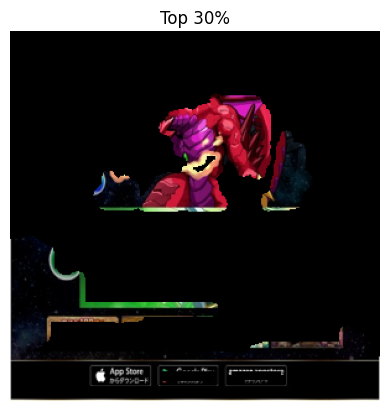
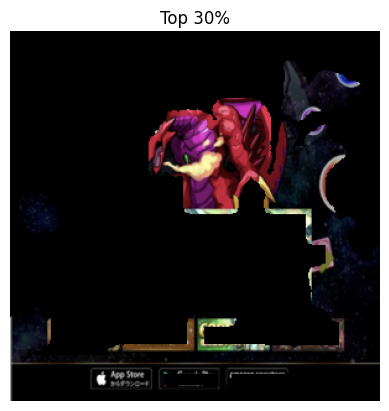
chore: Update image file names and save format in color blindness correction and saliency map generation

diff --git a/app/color_blindness_simulation.py b/app/color_blindness_simulation.py
@@ -33,45 +33,22 @@ def simulate_tritanopia(image):
     ])
     return apply_color_blindness_filter(image, tritanopia_matrix)
 
-
-def create_blindness_image(image_path,color_blindness_type='deuteranopia'):
-# Load image
-# image_path = 'many.jpg'  # 変換したい画像のパスを指定してください
+def create_blindness_image(image_path, color_blindness_type='deuteranopia', save_path='output_image.png'):
+    # Load image
     original_image = Image.open(image_path)
-    
     
     # Apply filters
     if color_blindness_type == 'protanopia':
-        protanopia_image = simulate_protanopia(original_image)
-        return protanopia_image
+        processed_image = simulate_protanopia(original_image)
     elif color_blindness_type == 'deuteranopia':
-        deuteranopia_image = simulate_deuteranopia(original_image)
-        return deuteranopia_image
+        processed_image = simulate_deuteranopia(original_image)
     elif color_blindness_type == 'tritanopia':
-        tritanopia_image = simulate_tritanopia(original_image)
-        return tritanopia_image
-    # protanopia_image = simulate_protanopia(original_image)
-    # deuteranopia_image = simulate_deuteranopia(original_image)
-    # tritanopia_image = simulate_tritanopia(original_image)
+        processed_image = simulate_tritanopia(original_image)
+    else:
+        raise ValueError("Invalid color blindness type. Choose from 'protanopia', 'deuteranopia', or 'tritanopia'.")
+    
+    # Save the processed image as PNG
+    processed_image.save(save_path, "PNG")
 
-    # # Save results
-    # protanopia_image.save('image/protanopia_image.jpg')
-    # deuteranopia_image.save('image/deuteranopia_image.jpg')
-    # tritanopia_image.save('image/tritanopia_image.jpg')
-    # return [protanopia_image, deuteranopia_image, tritanopia_image]
-
-# Display results
-# fig, axes = plt.subplots(1, 4, figsize=(20, 5))
-# axes[0].imshow(original_image)
-# axes[0].set_title('Original')
-# axes[0].axis('off')
-# axes[1].imshow(protanopia_image)
-# axes[1].set_title('Protanopia')
-# axes[1].axis('off')
-# axes[2].imshow(deuteranopia_image)
-# axes[2].set_title('Deuteranopia')
-# axes[2].axis('off')
-# axes[3].imshow(tritanopia_image)
-# axes[3].set_title('Tritanopia')
-# axes[3].axis('off')
-# plt.show()
+# 使用例
+create_blindness_image("many.jpg", color_blindness_type='tritanopia', save_path='image3.png')

diff --git a/app/saliency_map_generation.py b/app/saliency_map_generation.py
@@ -120,7 +120,7 @@ output_dir = 'image/saliency'
 os.makedirs(output_dir, exist_ok=True)
 
 # Generate saliency maps
-xrai_attributions, im_mask = generate_saliency_maps('many.jpg')
+xrai_attributions, im_mask = generate_saliency_maps('sample.png')
 
 # Show XRAI heatmap attributions and Top 30% images, and save them
 heatmap_image = show_heatmap(xrai_attributions, title='XRAI Heatmap', save_path=os.path.join(output_dir, 'xrai_heatmap.png'))

diff --git a/app/color_blindness_correction.py b/app/color_blindness_correction.py
@@ -18,5 +18,5 @@ def adjust_hue_for_colorblind(image_path, angle):
     return image
 
 # 使用例
-adjusted_image = adjust_hue_for_colorblind("many.jpg", 45)  # 色相を45度回転
-adjusted_image.save("output_image.jpg")  # 変換後の画像を保存
+adjusted_image = adjust_hue_for_colorblind("sample.png", 45)  # 色相を45度回転
+adjusted_image.save("output_image.png", "PNG")  # 変換後の画像をPNG形式で保存
